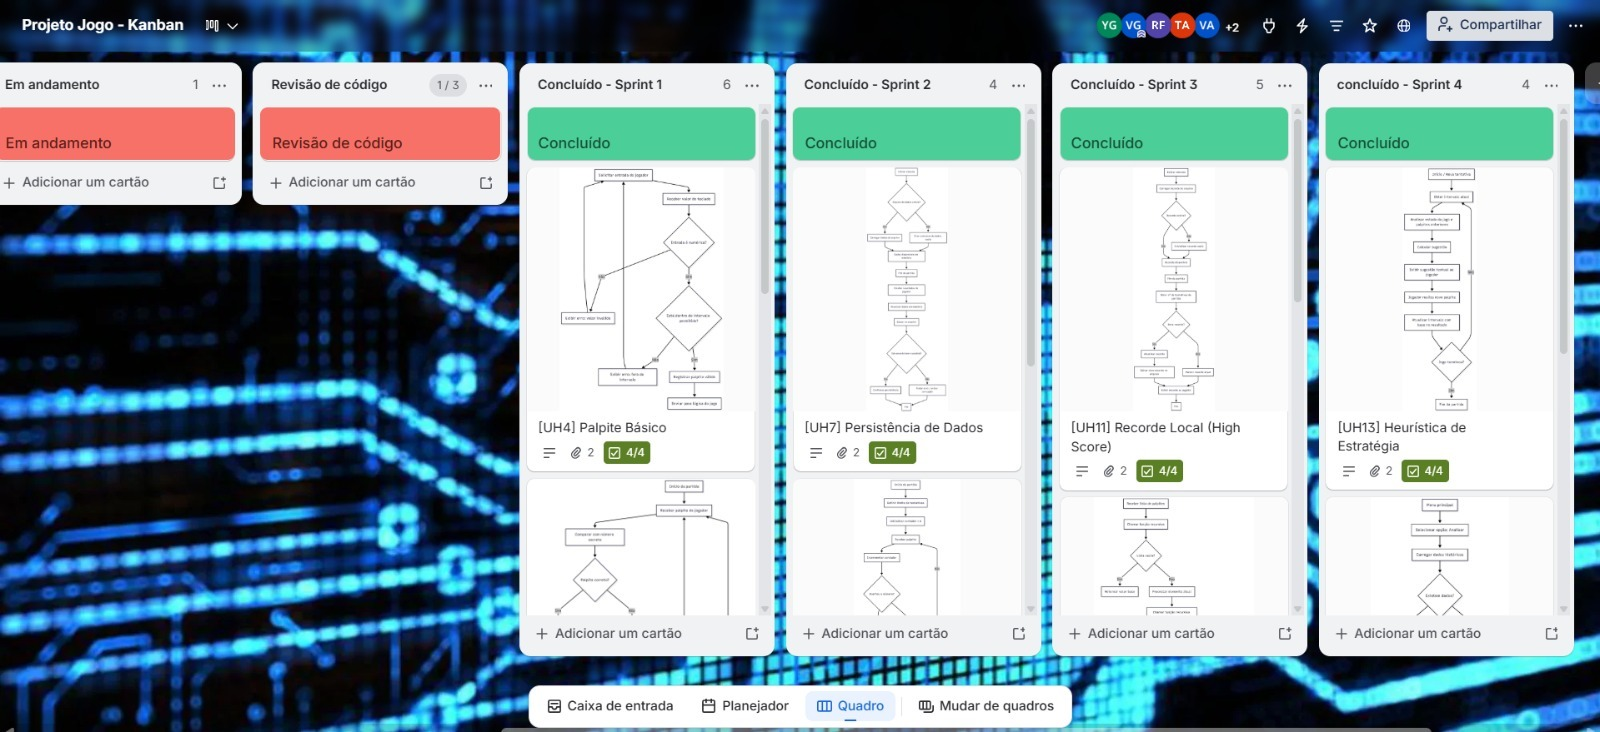
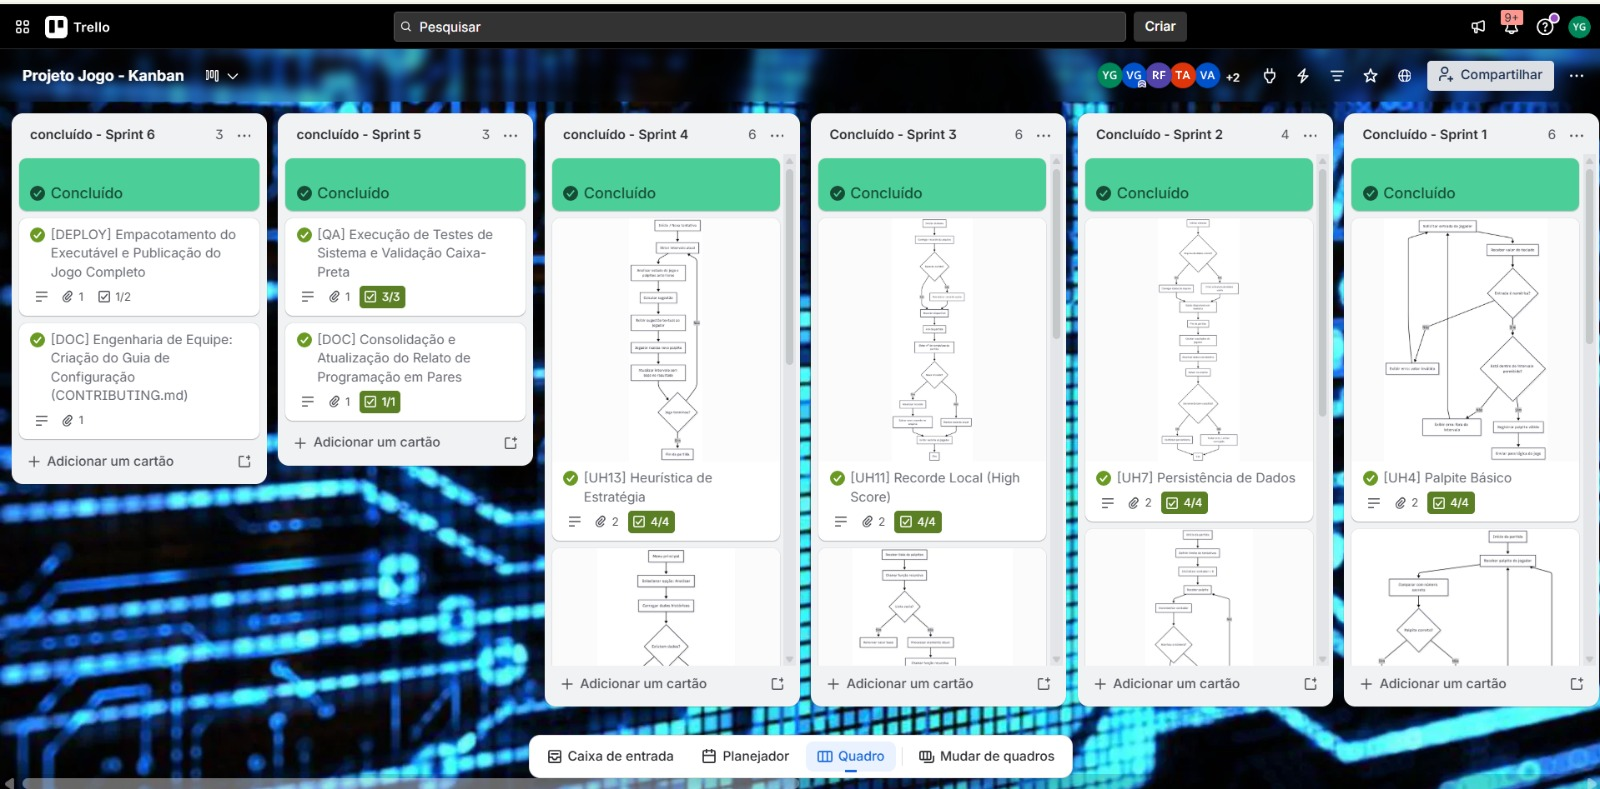
docs: adiciona guia de contribuição e atualiza imagem do trello

diff --git a/docs/CONTRIBUTING.md b/docs/CONTRIBUTING.md
@@ -1,0 +1,69 @@
+# Guia de Contribuição - GH0ST: 2047
+
+Primeiramente, obrigado por se interessar em contribuir para o **GH0ST: 2047 - Neural Guessing System**! Este projeto é um ecossistema de jogo com temática cyberpunk desenvolvido como parte do programa Embarque Digital na CESAR School.
+
+Este documento serve como um guia prático para configurar o ambiente de desenvolvimento, compilar o código-fonte e garantir que as novas contribuições respeitem a arquitetura limpa e modular estabelecida pelo grupo.
+
+---
+
+## 🛠 1. Pré-requisitos e Configuração do Ambiente
+
+O projeto é escrito puramente na linguagem **C** e utiliza a biblioteca **Raylib** para o gerenciamento de gráficos, áudio e captura de entradas (inputs) do usuário.
+
+### Requisitos de Software:
+* **Compilador C:** GCC (via MinGW-w64 no Windows, ou nativo no Linux/macOS).
+* **Biblioteca Gráfica:** [Raylib v4.5 ou superior](https://www.raylib.com/).
+* **Assets do Sistema:** A pasta `resources/` (contendo os arquivos de áudio `.mp3`, fontes cyberpunk e os arquivos de texto com as perguntas lógicas) deve estar localizada obrigatoriamente na raiz do repositório ou junto ao executável final compilado.
+
+---
+
+## 🏗 2. Arquitetura Modular do Código
+
+Para contribuir com o projeto, você deve respeitar a estrutura modularizada implementada a partir do arquivo principal (`main.c`):
+
+* `types.h`: Modifique aqui se precisar alterar a estrutura central de dados e variáveis de controle do jogo (`GameState`).
+* `theme.h` / `ui/`: Componentes visuais, botões e paletas de cores neon. Qualquer alteração de design deve ser centralizada aqui.
+* `game/`: Contém a lógica de processamento de palpites (`game_logic.h`) e o banco de questões lógicas (`logic_questions.h`). **A lógica de negócios não deve ser escrita diretamente na main.**
+* `persistence/`: Gerencia o histórico local de sessões (`history.h`) e a geração de relatórios estatísticos em formato CSV (`session_logger.h` / `statistics.h`).
+
+---
+
+## 🚀 3. Como Compilar e Executar
+
+### Via Prompt de Comando / Terminal (GCC Direto):
+Navegue até a raiz do projeto e execute o comando de compilação apontando para as dependências do código e vinculando as flags nativas da Raylib:
+
+```bash
+gcc main.c -o ghost2047.exe -lraylib -lopengl32 -lgdi32 -lwinmm -I./include -L./lib
+```
+
+Para executar o sistema após a compilação bem-sucedida:
+
+```bash
+./ghost2047.exe
+```
+
+---
+
+## 📊 4. Padrões de Código e Algoritmos Recursivos
+
+Ao estender os módulos de análise matemática ou inteligência do jogo, atente-se às seguintes diretrizes:
+
+1. **Recursividade Obrigatória:** As funções agregadas de cálculo no painel estatístico (como Soma de Tentativas, Mínimo, Máximo e Soma Quadrática para cálculo de Variância/Desvio Padrão) utilizam **recursão** em vez de laços estruturados (`for`/`while`) por critérios de arquitetura acadêmica. Mantenha esse padrão para novas métricas.
+2. **Nomenclatura:** Utilize o padrão `camelCase` para variáveis locais e estruturas na `main.c`, e `snake_case` para propriedades internas nos arquivos de cabeçalho (`.h`).
+3. **Gerenciamento de Memória:** Sempre que introduzir novos carregamentos de assets (Músicas ou Texturas), adicione a respectiva função de desalocação dentro do bloco `UnloadGame()` para evitar vazamento de memória (Memory Leaks).
+
+---
+
+## 🌿 5. Fluxo de Git para Submissões
+
+1. Faça um **Fork** do repositório oficial do projeto.
+2. Crie uma branch para a sua feature ou correção de bug:
+
+```bash
+git checkout -b feature/minha-nova-feature
+```
+
+3. Faça commits claros e granulares detalhando as mudanças (Exemplo: `git commit -m "feat: adiciona efeito glitch na transicao de dicas"`).
+4. Certifique-se de rodar os testes de sistema locais antes de subir as alterações.
+5. Abra um **Pull Request** detalhando as mudanças realizadas e vincule-o à respectiva Issue do GitHub Tracker.
